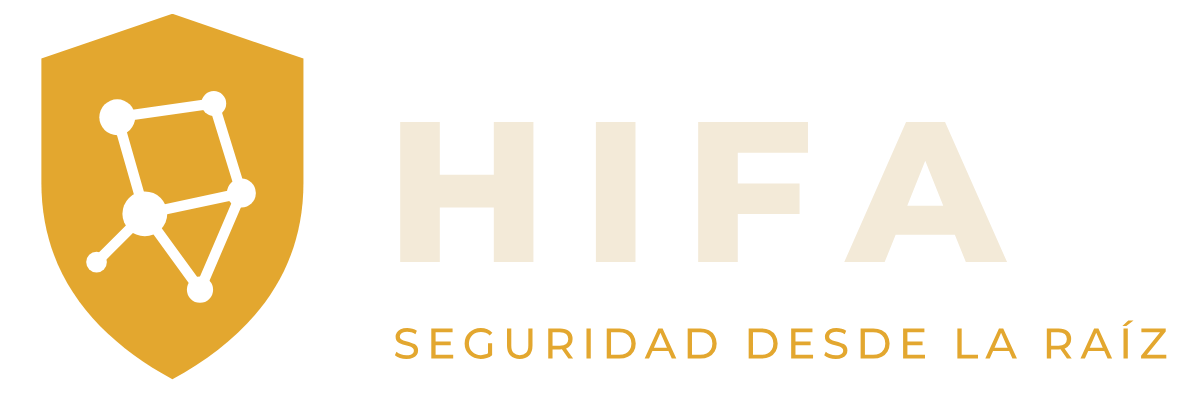
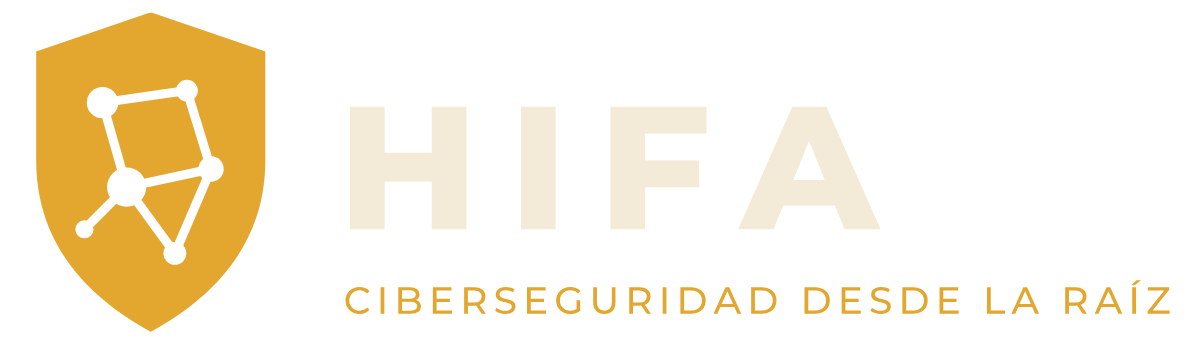
feat(marca): frases de HIFA hablan de ciberseguridad
"Seguridad" sola se confundía con vigilancia privada. El logo pasa a
"Ciberseguridad desde la raíz" y el lema del sitio a
"Prueba tu ciberseguridad antes de que ellos lo hagan" (EN: "Test your cybersecurity before they do").

Claude-Session: https://claude.ai/code/session_01VhFUkbdnRAoBuVdCTeVJGp

diff --git a/blog/js/main.js b/blog/js/main.js
@@ -21,7 +21,7 @@
       'hero.hint':'Toca un nodo para abrir el proyecto, o arrastra sobre la red para que crezca hacia ti.',
       'hero.traffic':'Tráfico en la red',
       'hifa.eyebrow':'Proyecto principal',
-      'hifa.title':'Prueba tu seguridad antes de que ellos lo hagan.',
+      'hifa.title':'Prueba tu ciberseguridad antes de que ellos lo hagan.',
       'hifa.lead':'HIFA es la empresa de ciberseguridad que estoy construyendo para Latinoamérica. Su nombre viene de las hifas: la red que nadie ve y que sostiene todo, igual que las comunicaciones de una empresa.',
       'hifa.shield':'Auditorías, pruebas de penetración y hardening para encontrar las fallas antes que un atacante.',
       'hifa.intel':'Investigación de amenazas nuevas, como deepfakes e inyección de prompts contra sistemas de IA.',
@@ -64,7 +64,7 @@
       'hero.hint':'Tap a node to open the project, or drag across the network to make it grow toward you.',
       'hero.traffic':'Network traffic',
       'hifa.eyebrow':'Main project',
-      'hifa.title':'Test your security before they do.',
+      'hifa.title':'Test your cybersecurity before they do.',
       'hifa.lead':'HIFA is the cybersecurity company I\'m building for Latin America. Its name comes from hyphae: the unseen network that holds everything together, just like a company\'s communications.',
       'hifa.shield':'Audits, penetration testing and hardening to find the gaps before an attacker does.',
       'hifa.intel':'Research on new threats, such as deepfakes and prompt injection against AI systems.',

diff --git a/js/main.js b/js/main.js
@@ -21,7 +21,7 @@
       'hero.hint':'Toca un nodo para abrir el proyecto, o arrastra sobre la red para que crezca hacia ti.',
       'hero.traffic':'Tráfico en la red',
       'hifa.eyebrow':'Proyecto principal',
-      'hifa.title':'Prueba tu seguridad antes de que ellos lo hagan.',
+      'hifa.title':'Prueba tu ciberseguridad antes de que ellos lo hagan.',
       'hifa.lead':'HIFA es la empresa de ciberseguridad que estoy construyendo para Latinoamérica. Su nombre viene de las hifas: la red que nadie ve y que sostiene todo, igual que las comunicaciones de una empresa.',
       'hifa.shield':'Auditorías, pruebas de penetración y hardening para encontrar las fallas antes que un atacante.',
       'hifa.intel':'Investigación de amenazas nuevas, como deepfakes e inyección de prompts contra sistemas de IA.',
@@ -64,7 +64,7 @@
       'hero.hint':'Tap a node to open the project, or drag across the network to make it grow toward you.',
       'hero.traffic':'Network traffic',
       'hifa.eyebrow':'Main project',
-      'hifa.title':'Test your security before they do.',
+      'hifa.title':'Test your cybersecurity before they do.',
       'hifa.lead':'HIFA is the cybersecurity company I\'m building for Latin America. Its name comes from hyphae: the unseen network that holds everything together, just like a company\'s communications.',
       'hifa.shield':'Audits, penetration testing and hardening to find the gaps before an attacker does.',
       'hifa.intel':'Research on new threats, such as deepfakes and prompt injection against AI systems.',

diff --git a/index.html b/index.html
@@ -113,8 +113,8 @@
       <div class="hifa__inner">
         <div class="hifa__head">
           <span class="eyebrow hifa__eyebrow" data-i18n="hifa.eyebrow">Proyecto principal</span>
-          <img class="hifa__logo" src="assets/brand/hifa/hifa-horizontal-oscuro.svg" alt="HIFA, seguridad desde la raíz" width="348" height="116" />
-          <h2 id="hifa-sec-title" class="hifa__title" data-i18n="hifa.title">Prueba tu seguridad antes de que ellos lo hagan.</h2>
+          <img class="hifa__logo" src="assets/brand/hifa/hifa-horizontal-oscuro.svg" alt="HIFA, ciberseguridad desde la raíz" width="398" height="116" />
+          <h2 id="hifa-sec-title" class="hifa__title" data-i18n="hifa.title">Prueba tu ciberseguridad antes de que ellos lo hagan.</h2>
           <p class="hifa__lead" data-i18n="hifa.lead">HIFA es la empresa de ciberseguridad que estoy construyendo para Latinoamérica. Su nombre viene de las hifas: la red que nadie ve y que sostiene todo, igual que las comunicaciones de una empresa.</p>
         </div>
         <ul class="hifa__lineas">

diff --git a/tools/marca/generar_logo_hifa.py b/tools/marca/generar_logo_hifa.py
@@ -44,18 +44,22 @@ def svg(w, h, body, title):
 
 # 1. Logo completo (insignia circular)
 d_hifa, _ = texto('HIFA', 'montserrat-latin-800-normal.woff', 66, 200, 292, spacing=12)
-d_tag, _ = texto('SEGURIDAD DESDE LA RAÍZ', 'montserrat-latin-500-normal.woff', 12.5, 200, 328, spacing=1.8)
+_tsize = 12.5
+d_tag, _tw = texto('CIBERSEGURIDAD DESDE LA RAÍZ', 'montserrat-latin-500-normal.woff', _tsize, 200, 328, spacing=1.6)
+if _tw > 226:  # que quepa dentro del anillo
+    _tsize = 12.5 * 226 / _tw
+    d_tag, _tw = texto('CIBERSEGURIDAD DESDE LA RAÍZ', 'montserrat-latin-500-normal.woff', _tsize, 200, 328, spacing=1.6 * 226 / _tw)
 body = (f'<circle cx="200" cy="200" r="194" fill="{INK}"/>'
         f'<circle cx="200" cy="200" r="182" fill="none" stroke="{GOLD}" stroke-width="7"/>'
         + escudo(122, 46, 1.56) +
         f'<path d="{d_hifa}" fill="{CREAM}"/><rect x="130" y="306" width="140" height="2" fill="{GOLD}"/>'
         f'<path d="{d_tag}" fill="{GOLD}"/>')
-open(f'{OUT}/hifa-logo.svg', 'w').write(svg(400, 400, body, 'HIFA, seguridad desde la raíz'))
+open(f'{OUT}/hifa-logo.svg', 'w').write(svg(400, 400, body, 'HIFA, ciberseguridad desde la raíz'))
 
 # 2. Horizontal (para encabezados), versión para fondo oscuro y para fondo claro
 for nombre, txt, fondo_escudo in [('hifa-horizontal-oscuro', CREAM, INK), ('hifa-horizontal-claro', INK, '#FFFFFF')]:
     d_h, wh = texto('HIFA', 'montserrat-latin-800-normal.woff', 58, 112, 76, spacing=10, anchor='start')
-    d_t, wt = texto('SEGURIDAD DESDE LA RAÍZ', 'montserrat-latin-500-normal.woff', 12.5, 114, 104, spacing=2, anchor='start')
+    d_t, wt = texto('CIBERSEGURIDAD DESDE LA RAÍZ', 'montserrat-latin-500-normal.woff', 12.5, 114, 104, spacing=2, anchor='start')
     W = int(112 + max(wh, wt) + 12)
     body = escudo(0, 4, 1.0, fondo=fondo_escudo) + f'<path d="{d_h}" fill="{txt}"/><path d="{d_t}" fill="{GOLD}"/>'
     open(f'{OUT}/{nombre}.svg', 'w').write(svg(W, 116, body, 'HIFA'))
